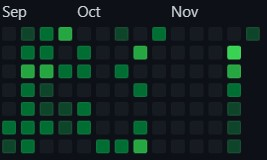
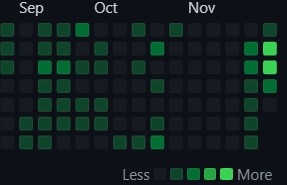
data update

diff --git a/src/components/Data/graphData/graphData.js b/src/components/Data/graphData/graphData.js
@@ -17,7 +17,7 @@ export const data = [
     },
     {
         name: "GitHub Commits",
-        graphPic: "./images/graphImages/github2.jpg"
+        graphPic: "./images/graphImages/github.jpg"
     },
 
 ]
